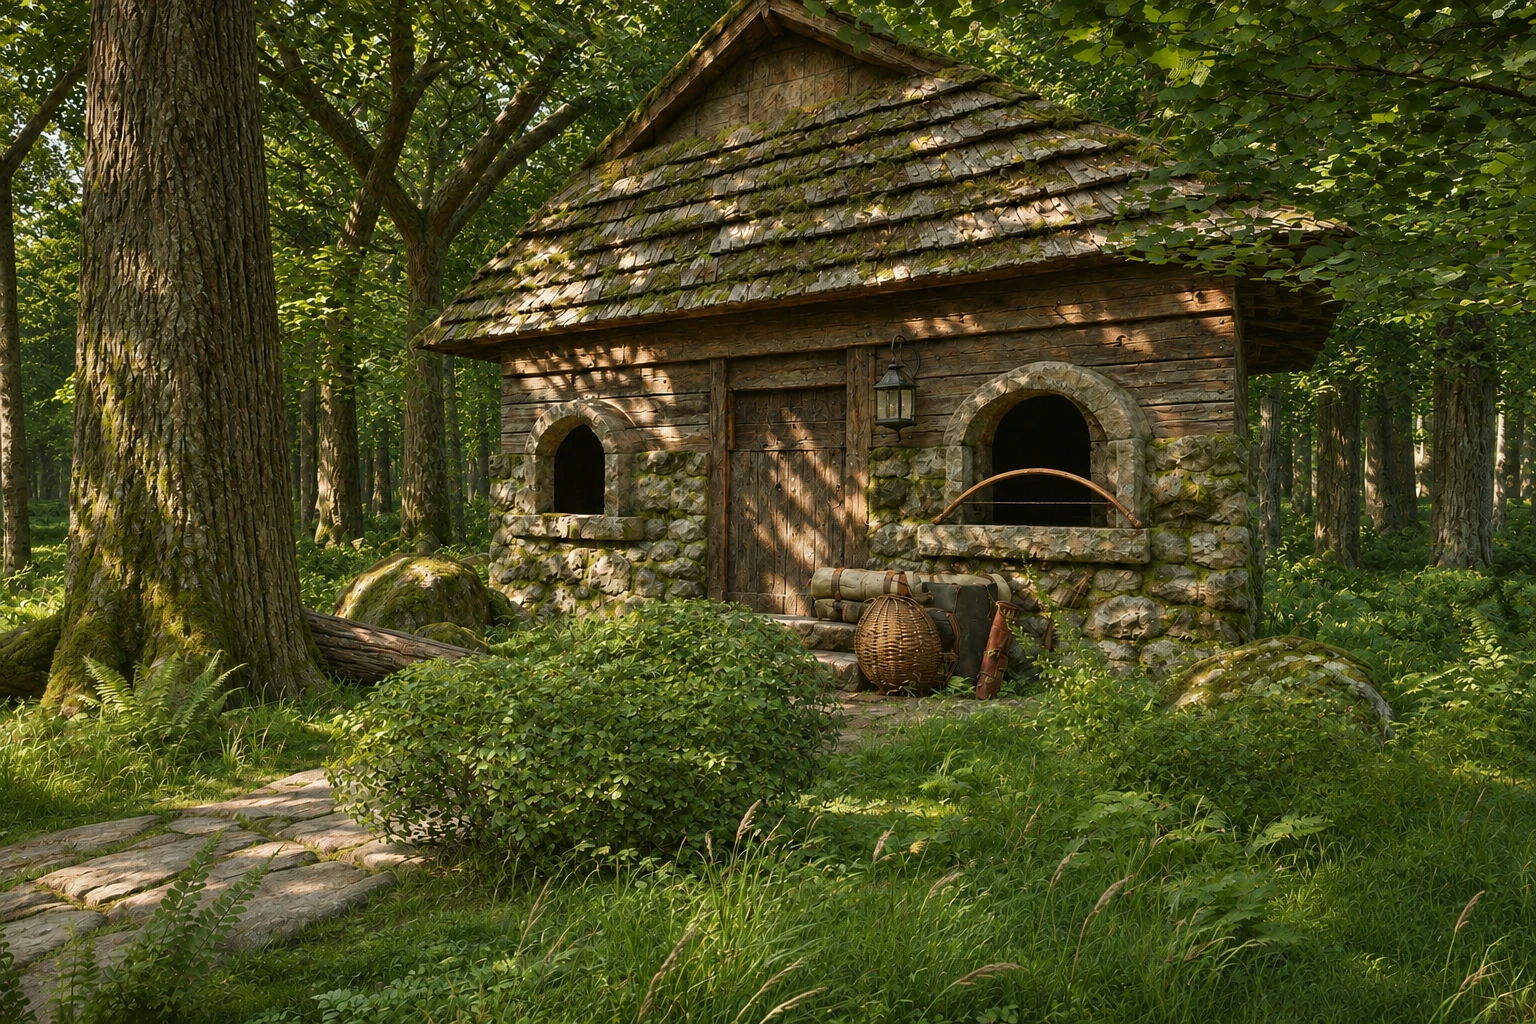
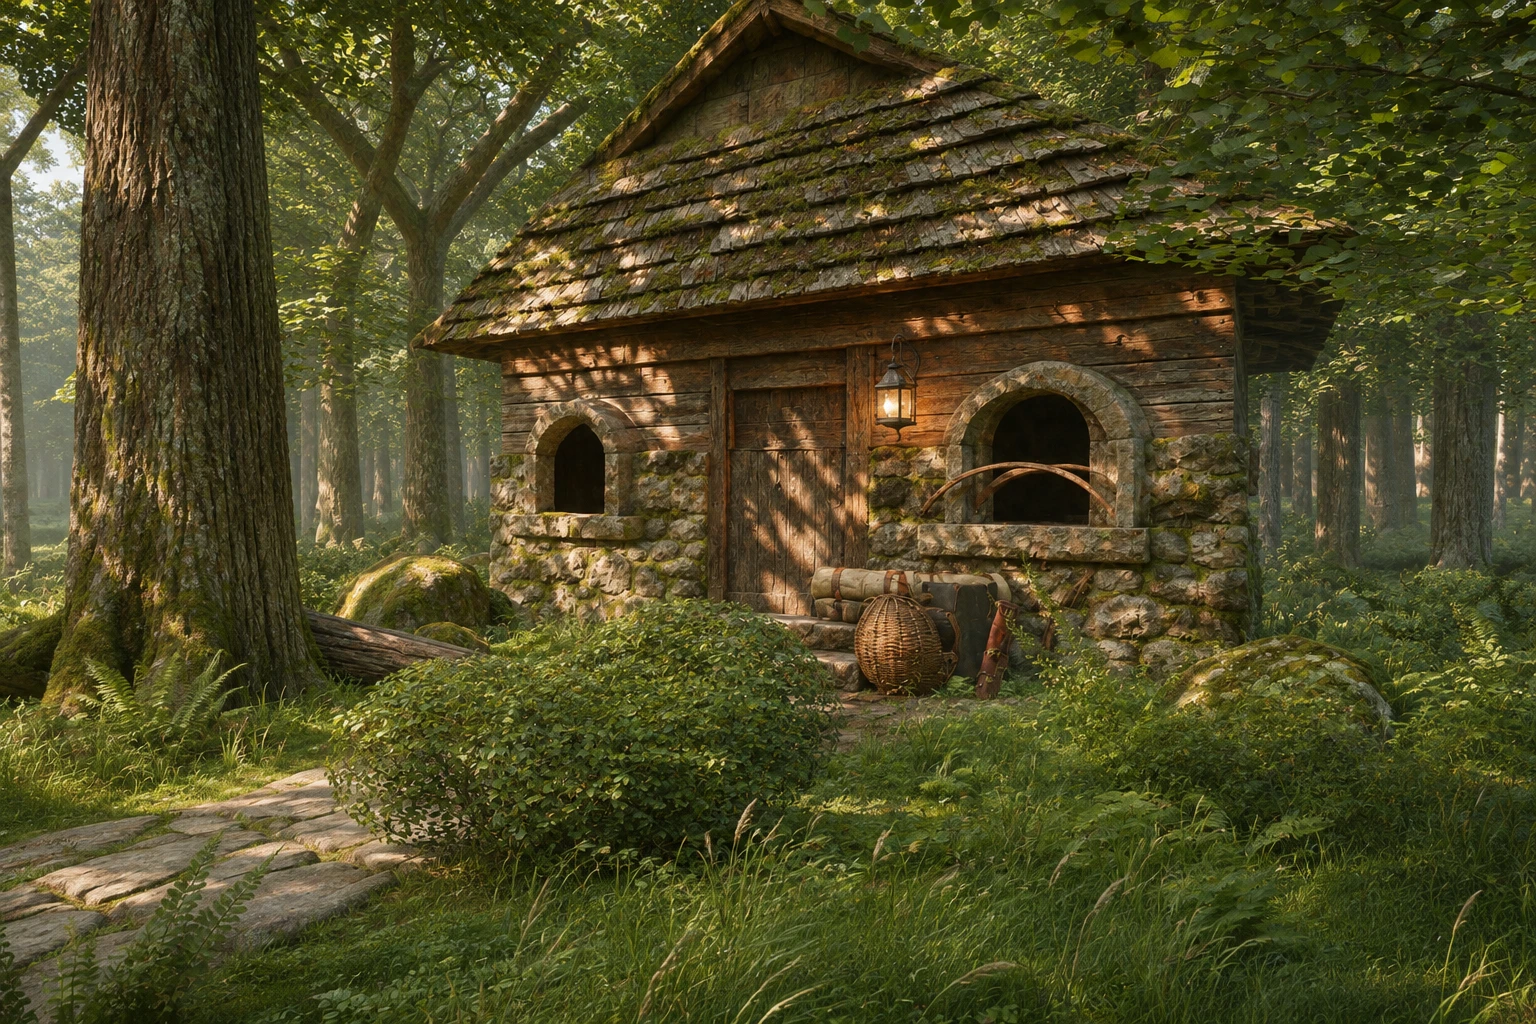
Mist drifts: a bank's thickness follows a slow cloud noise that moves with time, so fog slides over a painted set's still paint. The Old Standing Stones has mist lying on the river and standing along the far bank. The cottage porch keeps its first painting, since its retouch came back crunchy and ju

diff --git a/packages/stage/src/materials/surfaces.ts b/packages/stage/src/materials/surfaces.ts
@@ -606,14 +606,34 @@ export function mist(ctx: MaterialContext, bank: TextureBank, name: string, colo
   // orbits through the tree line's mist, and a pale wall with a hard edge slid across the screen. So a card thins to
   // nothing close to the camera and where it is seen edge on, and mist stays something in the distance. A card lying
   // flat over water is always seen near edge on, so it keeps its edge.
+  // The bank breathes: its thickness follows a slow cloud noise in world space that drifts with the wind, so fog slides
+  // over a painted set, whose own paint holds still.
   return stageMaterial(m, ctx.shared, "mist", (s) => {
-    s.vertexShader = s.vertexShader.replace("#include <common>", "#include <common>\nvarying vec3 vMistView;").replace("#include <project_vertex>", "#include <project_vertex>\nvMistView = -mvPosition.xyz;")
-    s.fragmentShader = s.fragmentShader.replace("#include <common>", "#include <common>\nvarying vec3 vMistView;").replace(
+    s.uniforms.uTime = ctx.shared.time
+    s.vertexShader = s.vertexShader
+      .replace("#include <common>", "#include <common>\nvarying vec3 vMistView; varying vec3 vMistWorld;")
+      .replace(
+        "#include <project_vertex>",
+        `#include <project_vertex>
+vMistView = -mvPosition.xyz;
+{ vec4 mw = vec4(transformed, 1.0);
+#ifdef USE_BATCHING
+ mw = batchingMatrix * mw;
+#endif
+#ifdef USE_INSTANCING
+ mw = instanceMatrix * mw;
+#endif
+ vMistWorld = (modelMatrix * mw).xyz; }`
+      )
+    s.fragmentShader = s.fragmentShader.replace("#include <common>", `#include <common>\nuniform float uTime; varying vec3 vMistView; varying vec3 vMistWorld;\n${NOISE}`).replace(
       "#include <map_fragment>",
       `#include <map_fragment>
 { vec3 mistNormal = normalize(cross(dFdx(vMistView), dFdy(vMistView)));
  float mistEdge = smoothstep(0.08, 0.4, abs(dot(normalize(vMistView), mistNormal)));
- diffuseColor.a *= smoothstep(1.5, 8.0, length(vMistView)) * mix(mistEdge, 1.0, abs((mistNormal * mat3(viewMatrix)).y)); }`
+ diffuseColor.a *= smoothstep(1.5, 8.0, length(vMistView)) * mix(mistEdge, 1.0, abs((mistNormal * mat3(viewMatrix)).y));
+ vec2 mistAt = vMistWorld.xz * .11 + vec2(vMistWorld.y * .2, 0.0);
+ float mistN = mfbm(mistAt + uTime * vec2(.07, .025)) * .65 + mfbm(mistAt * 1.9 - uTime * vec2(.03, .08)) * .35;
+ diffuseColor.a *= mix(.15, 1.7, smoothstep(.25, .7, mistN)); }`
     )
   })
 }

diff --git a/lab/stage-art/README.md b/lab/stage-art/README.md
@@ -271,10 +271,13 @@ Portraits, the same day. The turn order and the character card showed the painte
 The Midnight Summons audited as played, 2026-11-23. Every shot and speaker's view of six stagings captured with the cast (`capture.ts --heroes`), scored by fresh judges on shape, materials, light, fit and close up, as in the dream loop but with no target. Owner: no heavy beams of light from above, no unrealistic tree limbs.
 
 - Round 0: 4.6 to 7.2. Seven of the trail's paintings carry beams of light, most likely painted from the set's two `lightShaft`s in their plates.
-- The trail's light shafts are gone from the set. `trail`, `clearing`, `oak` and the cottage's `porch` were retouched in place (`repaint.ts <painting-as-plate> retouch --cli`, edges within 8 px 97 to 99%): no beams, natural limbs, the bow on the sill strung, the lantern unlit by day.
+- The trail's light shafts are gone from the set. `trail`, `clearing` and `oak` were retouched in place (`repaint.ts <painting-as-plate> retouch --cli`, edges within 8 px 97 to 99%): no beams, natural limbs.
 - Flat teal bands along the cottage's far woods were the set's backdrop, which takes no paint and showed through gaps between painted trees. A painted set now hides its backdrops once the paintings are up.
 - The night sets' cards are graded cooler: `light` `#8a9cc2` on the trail, `#8fa2c6` at the stones.
-- Not yet retouched, the image tool at its limit: `fallen`, `standoff`, `fight` and `druid` (lighter beams), and `home` and `home-2` (the hoop and the lit lantern).
+- Scores from one judge to the next moved more than any change did: a second judge scored even untouched views a point or more lower. So round 1 was settled blind, before against after with the sides shuffled: after won 7 of 8 pairs, the eighth a tie.
+- The porch's retouch came back crunchy, over-sharpened stone, and judged a point worse. The porch keeps its first painting. Retouches also lean painterly in bark and leaves, and the clearing's trees came back in rows with matching forks: paint it again.
+- Mist banks drift (`mist` in `materials/surfaces.ts`): their thickness follows a slow cloud noise in world space that moves with time, so fog slides over the still paint. The stones have mist lying on the river and standing along the far bank. Subtle by design: about 0.4% of the river view's pixels change by more than 6 levels in 6 seconds.
+- Not yet retouched, the image tool at its limit: `fallen`, `standoff`, `fight` and `druid` (lighter beams), and `home`, `home-2` and `porch` (the bow lying like a hoop on the sill, the lantern lit by day).
 
 Known limits:
 
